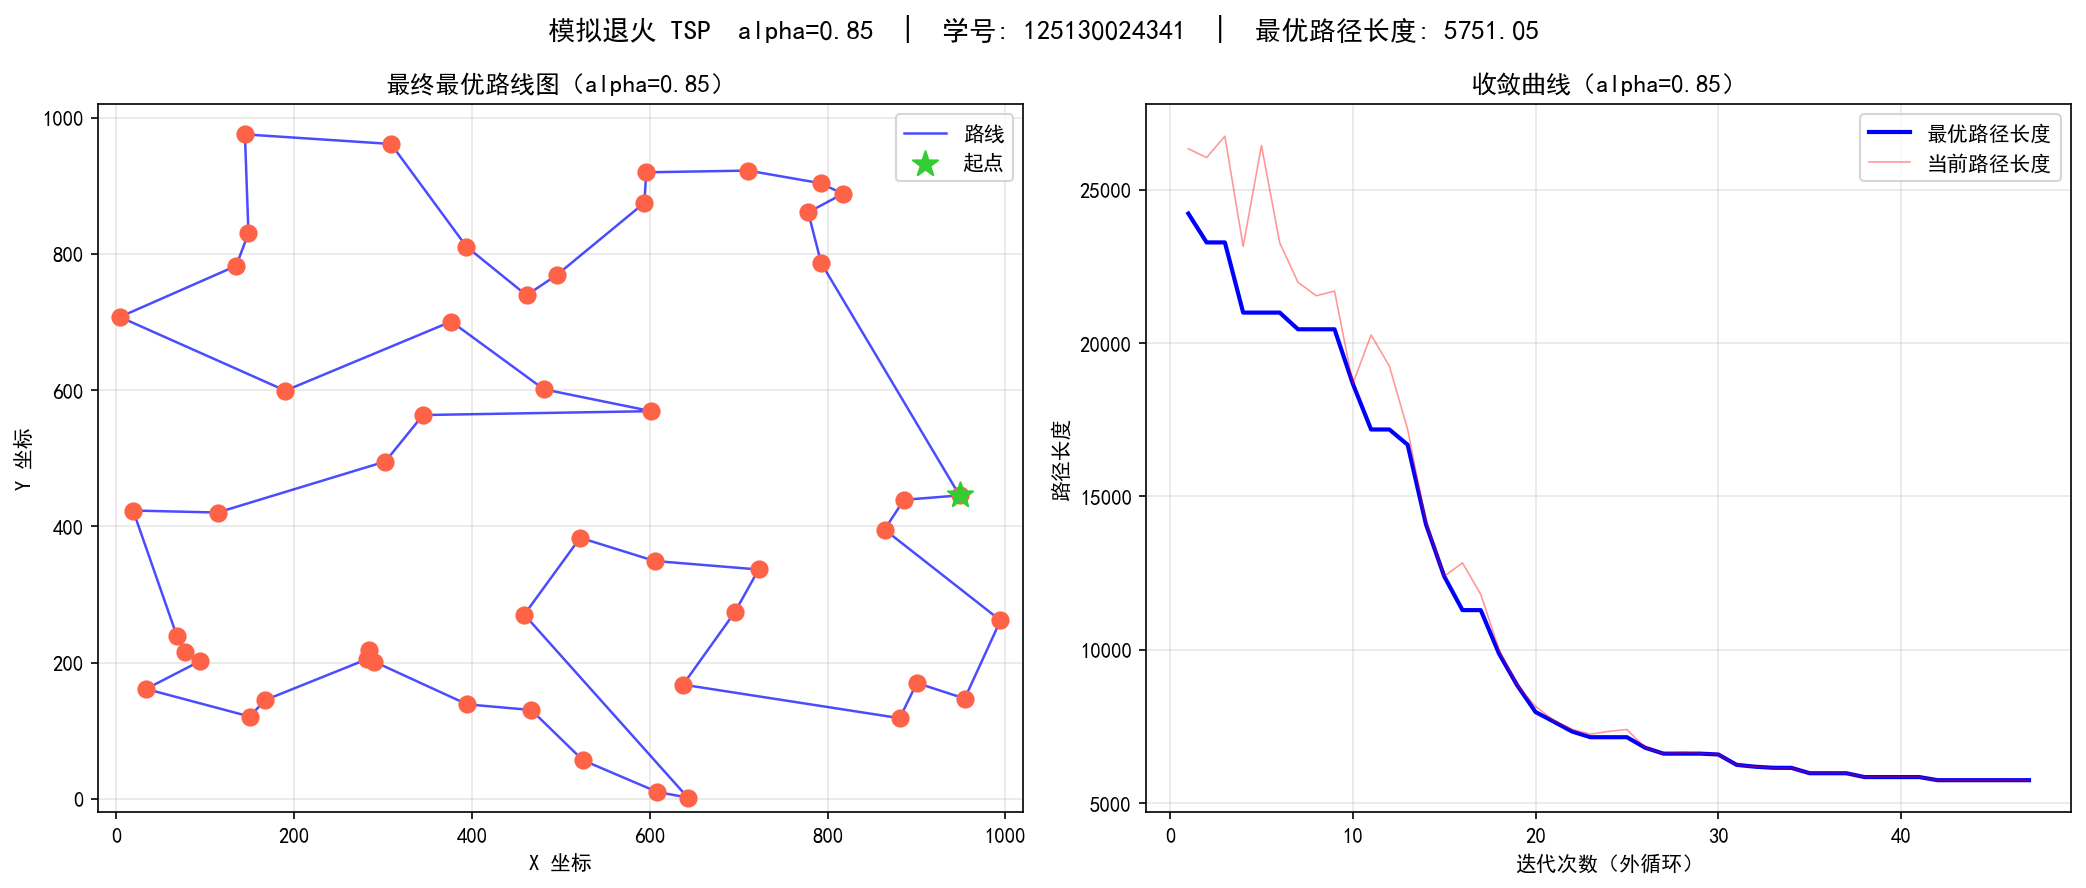
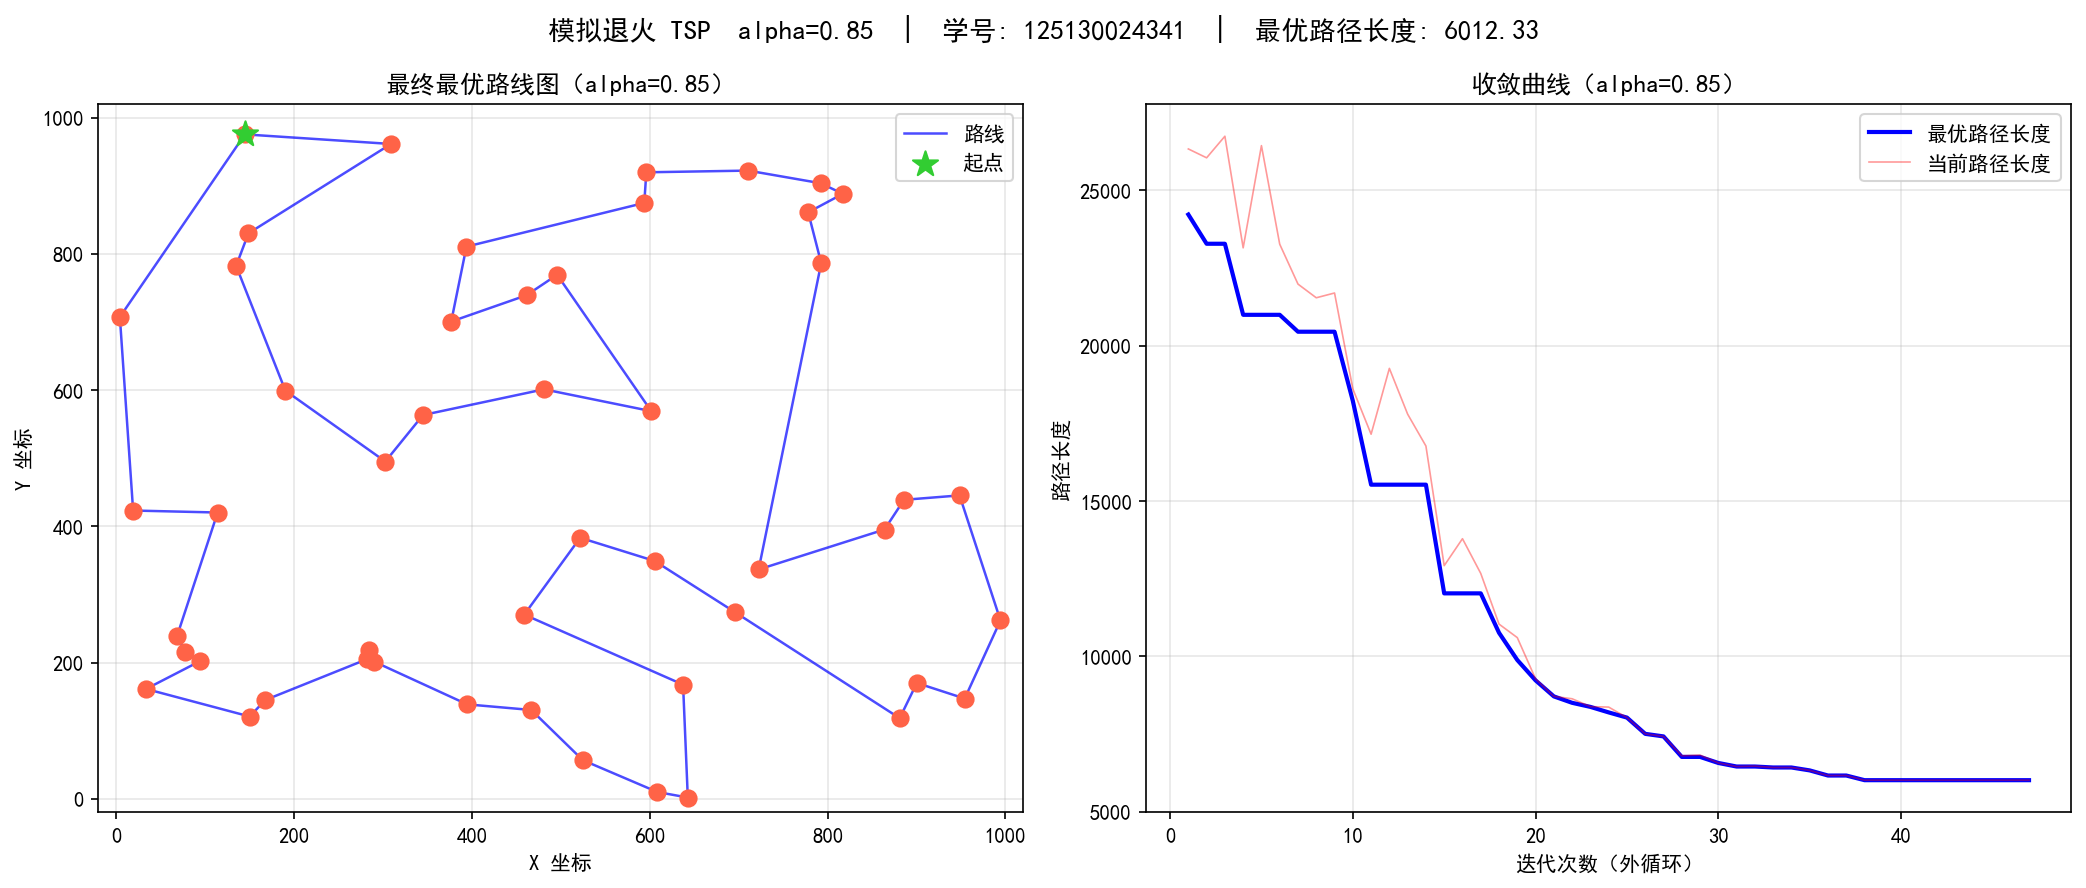
重构邻域函数接口，减少复杂度

diff --git a/tsp_simulated_annealing.py b/tsp_simulated_annealing.py
@@ -71,49 +71,94 @@ def tour_length(tour: List[int], dist_matrix: np.ndarray) -> float:
 # ============================================================
 # 3. 邻域解生成（三种实现方式：2-opt逆转、随机交换、插入法）
 # ============================================================
-def neighbor_2opt(tour: List[int]) -> List[int]:
+def move_2opt(tour: List[int], dist_matrix: np.ndarray) -> Tuple[List[int], float]:
     """
-    2-opt 邻域：随机选取两个位置 i < j，逆转 tour[i..j] 段。
-    这是最经典的 TSP 邻域操作。
+    2-opt 邻域移动：随机选取 i < j，逆转 tour[i..j]，并以 O(1) 计算增量代价。
+    2-opt 只影响逆转段两端共 4 个端点，替换两条边：
+      旧边：(a, b) 和 (c, d)
+      新边：(a, c) 和 (b, d)
+    其中：a=tour[(i-1)%n], b=tour[i], c=tour[j], d=tour[(j+1)%n]
+    退化情形（i=0 且 j=n-1，整环反转）：delta_E=0，直接返回。
     输入：
-        tour: 路径
+        tour        : 当前路径
+        dist_matrix : 城市间距离矩阵
     输出：
-        new_tour: 新的路径
+        new_tour    : 2-opt 后的新路径
+        delta_E     : 路径长度增量（负值表示更优）
     """
+    n = len(tour)
+    i, j = sorted(np.random.choice(n, 2, replace=False))
+
+    # 退化：整条路径完全反转，环长度不变
+    if i == 0 and j == n - 1:
+        new_tour = tour[::-1]
+        return new_tour, 0.0
+
+    a, b, c, d = tour[(i-1) % n], tour[i], tour[j], tour[(j+1) % n]
+    delta_E = float(
+        (dist_matrix[a][c] + dist_matrix[b][d])
+        - (dist_matrix[a][b] + dist_matrix[c][d])
+    )
+
     new_tour = tour.copy()
-    i, j = sorted(np.random.choice(len(tour), 2, replace=False)) # 随机选取两个位置 i < j
-    new_tour[i:j + 1] = new_tour[i:j + 1][::-1] # 逆转 tour[i..j] 段
-    return new_tour
+    new_tour[i:j + 1] = new_tour[i:j + 1][::-1]
+    return new_tour, delta_E
 
 
-def neighbor_swap(tour: List[int]) -> List[int]:
+def move_swap(tour: List[int], dist_matrix: np.ndarray) -> Tuple[List[int], float]:
     """
-    随机交换两城市位置
+    swap 邻域移动：随机交换两城市位置，以 O(1) 计算增量代价。
+    交换城市 i 和 j（假设 i < j 且不相邻）后，受影响的边为：
+      旧边：(a,b), (b,c), (d,e), (e,f)
+      新边：(a,e), (e,c), (d,b), (b,f)
+    其中：a=tour[i-1], b=tour[i], c=tour[i+1], d=tour[j-1], e=tour[j], f=tour[j+1]
     输入：
-        tour: 路径
+        tour        : 当前路径
+        dist_matrix : 城市间距离矩阵
     输出：
-        new_tour: 新的路径
+        new_tour    : swap 后的新路径
+        delta_E     : 路径长度增量（负值表示更优）
     """
+    n = len(tour)
+    i, j = sorted(np.random.choice(n, 2, replace=False))
+
+    # 相邻城市交换退化为普通 2-opt，直接整路重算
+    if j == i + 1 or (i == 0 and j == n - 1):
+        new_tour = tour.copy()
+        new_tour[i], new_tour[j] = new_tour[j], new_tour[i]
+        return new_tour, tour_length(new_tour, dist_matrix) - tour_length(tour, dist_matrix)
+
+    a = tour[(i - 1) % n]; b = tour[i]; c = tour[(i + 1) % n]
+    d = tour[(j - 1) % n]; e = tour[j]; f = tour[(j + 1) % n]
+
+    old_cost = (dist_matrix[a][b] + dist_matrix[b][c]
+              + dist_matrix[d][e] + dist_matrix[e][f])
+    new_cost = (dist_matrix[a][e] + dist_matrix[e][c]
+              + dist_matrix[d][b] + dist_matrix[b][f])
+    delta_E  = float(new_cost - old_cost)
+
     new_tour = tour.copy()
-    i, j = np.random.choice(len(tour), 2, replace=False)
     new_tour[i], new_tour[j] = new_tour[j], new_tour[i]
-    return new_tour
+    return new_tour, delta_E
 
 
-def neighbor_insert(tour: List[int]) -> List[int]:
+def move_insert(tour: List[int], dist_matrix: np.ndarray) -> Tuple[List[int], float]:
     """
-    插入法：随机取出一座城市，插入到随机位置
+    insert 邻域移动：随机取出一座城市，插入到随机位置，整路重算代价。
     输入：
-        tour: 路径
+        tour        : 当前路径
+        dist_matrix : 城市间距离矩阵
     输出：
-        new_tour: 新的路径
+        new_tour    : insert 后的新路径
+        delta_E     : 路径长度增量（负值表示更优）
     """
     new_tour = tour.copy()
     i = np.random.randint(len(tour))
-    city = new_tour.pop(i) # 随机取出一座城市，插入到随机位置
+    city = new_tour.pop(i)
     j = np.random.randint(len(new_tour))
     new_tour.insert(j, city)
-    return new_tour
+    delta_E = tour_length(new_tour, dist_matrix) - tour_length(tour, dist_matrix)
+    return new_tour, delta_E
 
 
 # ============================================================
@@ -180,11 +225,14 @@ def simulated_annealing(
 
         # 内循环：热平衡（Metropolis 采样）
         for _ in range(inner_iter):
-            # 生成邻域解（2-opt 逆转法）
-            new_tour = neighbor_2opt(current_tour) if neighbor == '2-opt' else neighbor_swap(current_tour) if neighbor == 'swap' else neighbor_insert(current_tour)
-            new_len  = tour_length(new_tour, dist_matrix)
-
-            delta_E = new_len - current_len
+            # 统一接口：move_* 返回 (new_tour, delta_E)，2-opt/swap 均为 O(1) 增量计算
+            if neighbor == '2-opt':
+                new_tour, delta_E = move_2opt(current_tour, dist_matrix)
+            elif neighbor == 'swap':
+                new_tour, delta_E = move_swap(current_tour, dist_matrix)
+            else:
+                new_tour, delta_E = move_insert(current_tour, dist_matrix)
+            new_len = current_len + delta_E
 
             # Metropolis 接受准则
             if delta_E < 0:

diff --git a/OPTIMIZATION_SUMMARY.md b/OPTIMIZATION_SUMMARY.md
@@ -2,6 +2,15 @@
 
 ## 实验记录
 
+### 2026-03-20 v1.4
+**重构邻域函数接口，新增 swap O(1) 增量计算**
+- 将原来分散的 5 个邻域函数（`neighbor_2opt_with_indices`、`delta_2opt`、`neighbor_2opt`、`neighbor_swap`、`neighbor_insert`）统一重构为 3 个标准接口函数
+- 新接口统一签名：`move_*(tour, dist_matrix) -> (new_tour, delta_E)`，SA 内循环调用方式对齐
+- `move_2opt`：合并生成路径与 O(1) 增量计算，处理整环退化情形
+- `move_swap`：新增 O(1) swap delta 计算；相邻城市交换退化时自动回退整路重算
+- `move_insert`：保留整路重算（delta 推导复杂，性价比不高），统一签名
+- 代码由 5 函数收敛至 3 函数，可读性与可扩展性均提升
+
 ### 2026-03-20 v1.3
 **优化函数表达，修改部分注释**
 - 优化部分函数的表达形式，提升代码阅读性与结构清晰度（如参数与逻辑表达更集中）
